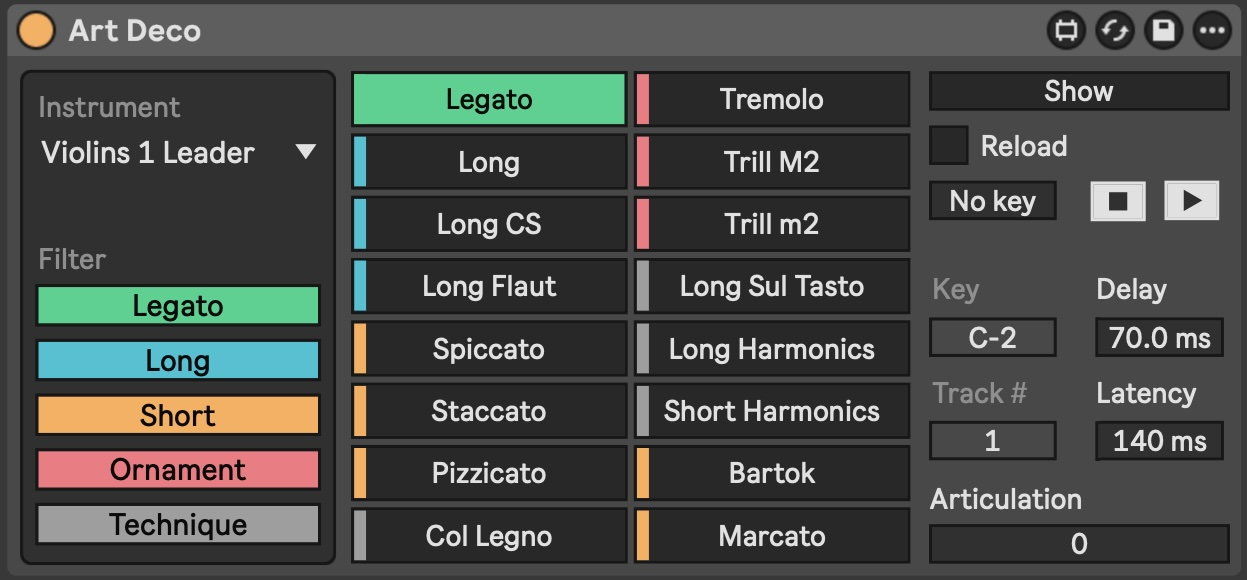
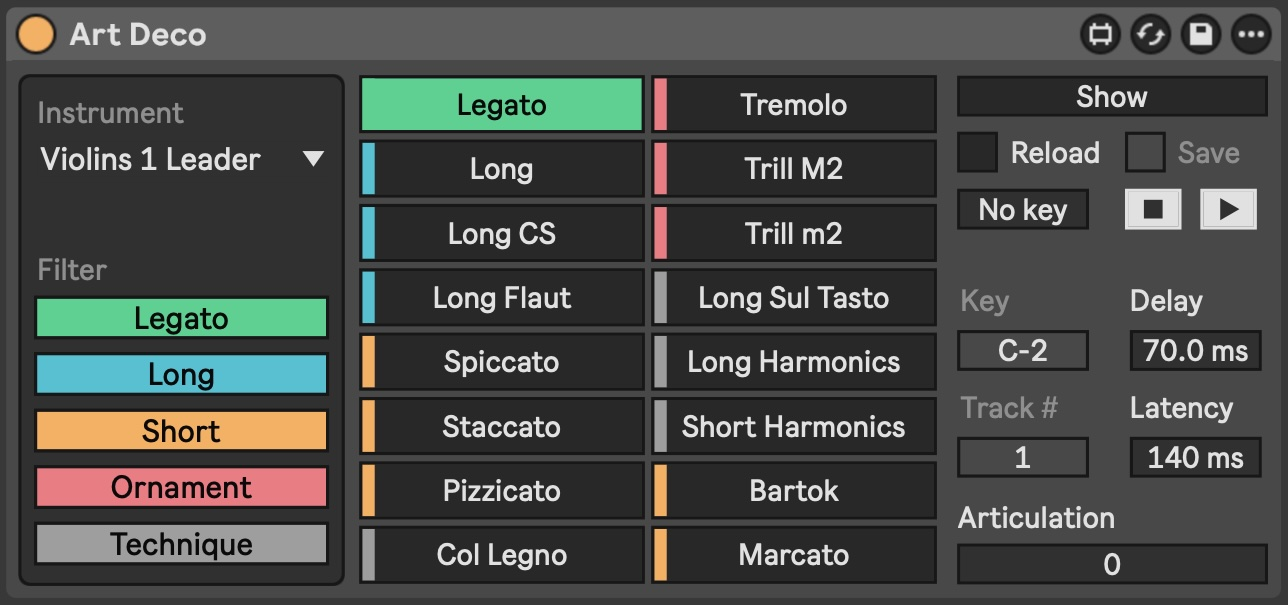
doc

diff --git a/README.md b/README.md
@@ -10,12 +10,14 @@
    - Customize the articulation list by modifying [articulations.tsv](./articulations.tsv).
    - The `.TSV` (Tab Separated Values) format can be copied/pasted to and edited in Google Sheets, for example.
    - Keep this file alongside your `.amxd` device file (same folder or one level up).
-   - Note: The current data is set up for BBC Symphony Orchestra users, sourced from [this spreadsheet](https://docs.google.com/spreadsheets/d/1WP9sobba7OkldNkTiSzXP7r3Pb64IzWQWrLkqdiyRcA/preview#gid=0).
+   - The current data is set up for BBC Symphony Orchestra users, sourced from [this spreadsheet](https://docs.google.com/spreadsheets/d/1WP9sobba7OkldNkTiSzXP7r3Pb64IzWQWrLkqdiyRcA/preview#gid=0).
+   - The [articulations](./articulations/) folder contains experimental alternative articulation sets. Many articulations in these sets have unknown delay values (set to 0), but they can still be used for keyswitch functionality.
+   - To use multiple articulation sets from different sample libraries, create a combined `articulations.tsv` configuration file. All devices in a Live set share the configuration from the first loaded device for performance optimization.
 2. Tip: Assign a hotkey to the `Show` button on the first track to quickly access articulation selection for the currently selected track.
 3. Use `No key` to disable keyswitch sending.
 4. `Play/Stop` buttons bypass delay compensation for real-time performance.
 5. Filter articulations by category (`Legato`, `Long`, `Short`, `Ornament`, `Technique`) to streamline selection in articulation-per-track setups.
-6. Override delay compensation temporarily in the `Delay` field for fine-tuning. Edit `articulations.tsv` to make changes permanent.
+6. Override delay compensation temporarily using the `Delay` field for fine-tuning. Click the `Save` button to make these temporary changes permanent in `articulations.tsv`.
 7. GUI overview
 ![](./usage-v7.svg)
 

diff --git a/TODO.md b/TODO.md
@@ -22,4 +22,5 @@
 - [x] save edited delays
 - [x] fix popup on empty track not empty
 - [x] check multiple libraries
+- [ ] update overview screenshot
 - [ ] support multiple libraries
